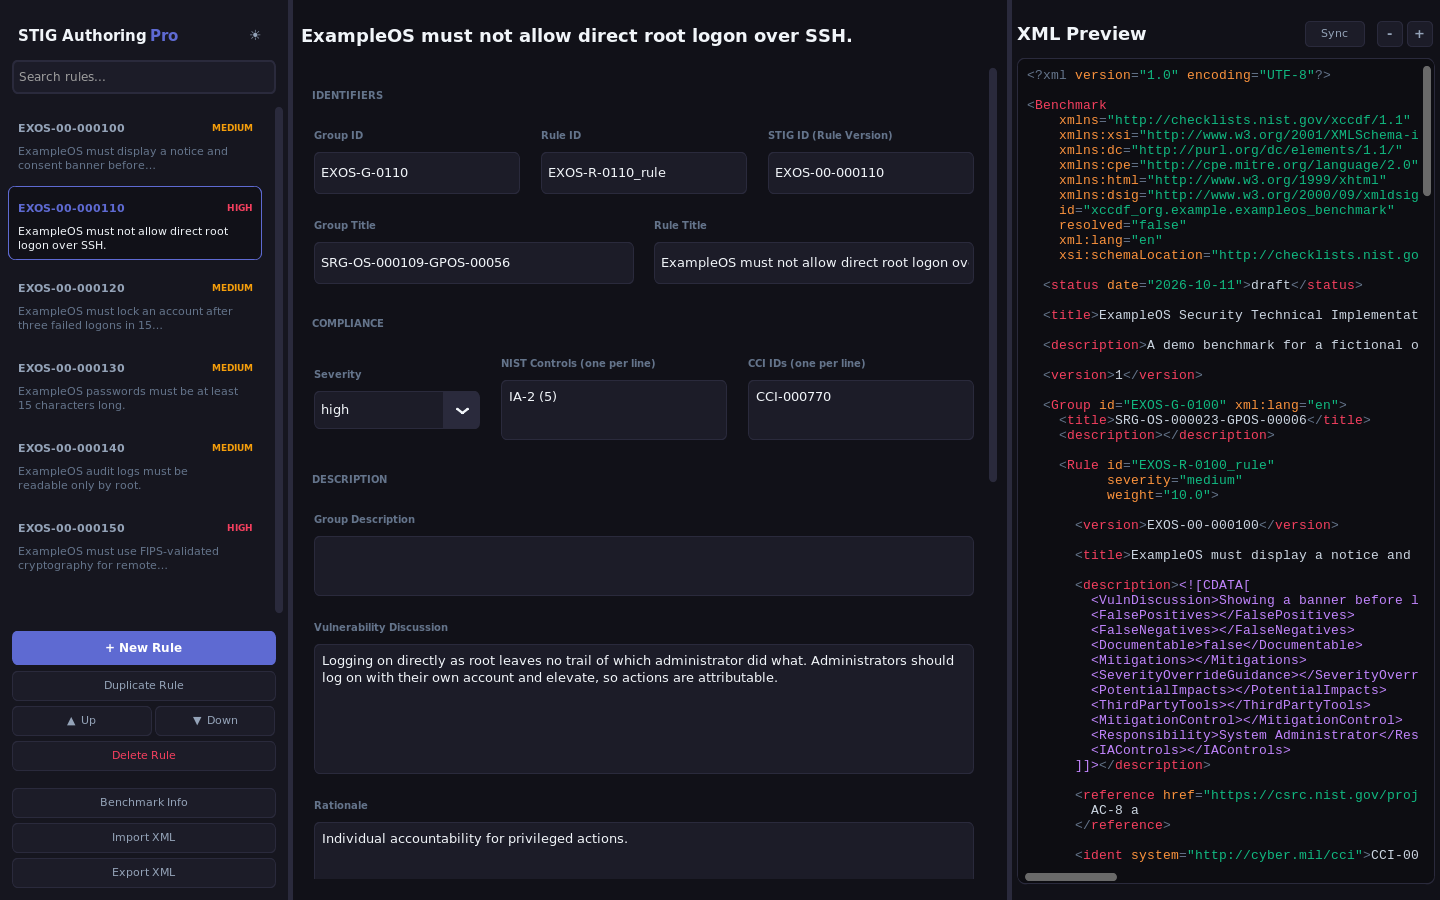
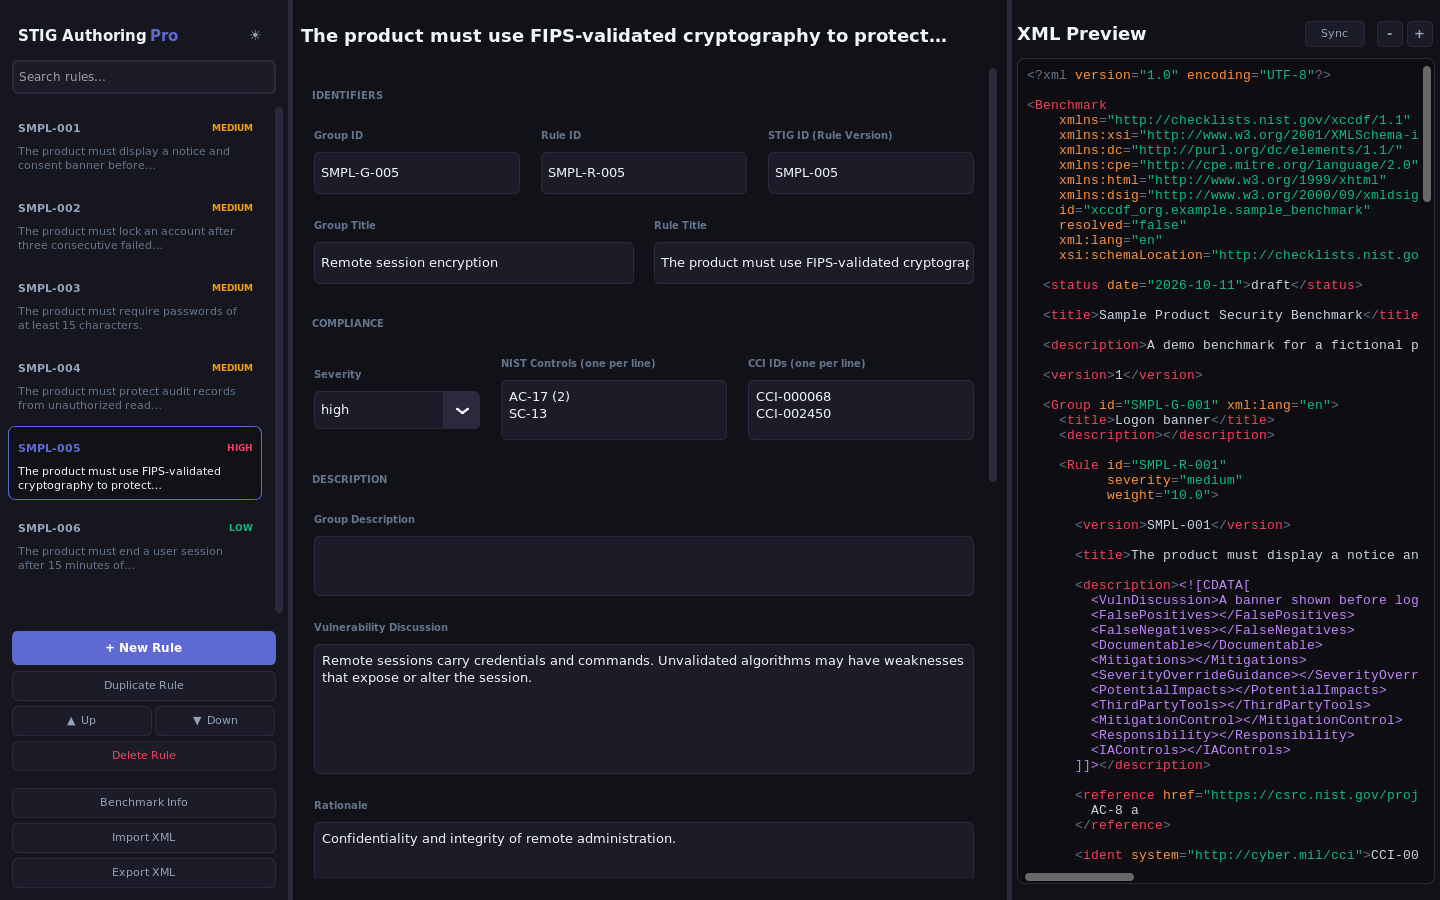
Product-neutral demo and export defaults (#8)

diff --git a/gui.py b/gui.py
@@ -118,6 +118,15 @@ def _make_unique_id(base_id, existing_ids):
     return candidate
 
 
+def _header_text(rule, limit=60):
+    """Editor header for a rule: its title cut on a word boundary so a long title
+    stays inside the pane instead of being clipped at both ends."""
+    text = rule.title.strip() or rule.rule_id.strip() or "(New Rule)"
+    if len(text) > limit:
+        text = text[:limit].rsplit(" ", 1)[0].rstrip(",.;:") + "\u2026"
+    return text
+
+
 def _bind_tree(widget, event, handler):
     """Recursively bind an event handler to a widget and all its tk descendants."""
     try:
@@ -969,7 +978,7 @@ class STIGApp(ctk.CTk):
             top = ctk.CTkFrame(card, fg_color="transparent")
             top.pack(fill="x", padx=10, pady=(8, 2))
 
-            # The STIG ID (e.g. EXOS-00-000100) is what reviewers refer to a rule by;
+            # The STIG ID (e.g. SMPL-001) is what reviewers refer to a rule by;
             # fall back to the long XCCDF IDs only when it is blank.
             # (Export writes the benchmark version into a blank STIG ID, so skip that.)
             stig_id = rule.stig_id if rule.stig_id != self.benchmark.version else ""
@@ -1039,8 +1048,7 @@ class STIGApp(ctk.CTk):
         rule = self.benchmark.rules[self.active_rule_index]
         
         # Display the rule title as the main editor header, fallback to rule ID if title is empty
-        title_text = rule.title.strip() or rule.rule_id.strip() or "(New Rule)"
-        self.rule_editor_label.configure(text=title_text)
+        self.rule_editor_label.configure(text=_header_text(rule))
         
         # Set values
         self.rule_fields["group_id"].set_value(rule.group_id)
@@ -1627,7 +1635,7 @@ class STIGApp(ctk.CTk):
         # Update the Rule Editor header and rebuild the sidebar card list when title/ID changes
         if self.active_rule_index is not None and 0 <= self.active_rule_index < len(self.benchmark.rules):
             rule = self.benchmark.rules[self.active_rule_index]
-            title_text = rule.title.strip() or rule.rule_id.strip() or "(New Rule)"
+            title_text = _header_text(rule)
             if self.rule_editor_label.cget("text") != title_text:
                 self.rule_editor_label.configure(text=title_text)
                 self.update_sidebar_rule_list()

diff --git a/engine.py b/engine.py
@@ -7,6 +7,14 @@ from models import STIGBenchmark, STIGRule
 # blank are derived from the benchmark ID, so nothing product-specific is baked in.
 DEFAULT_BENCHMARK_ID = "xccdf_org.example_benchmark"
 
+# Empty sub-elements written after VulnDiscussion in each rule description, in the
+# order the published STIG convention uses, so readers that expect them find them.
+DESCRIPTION_PLACEHOLDERS = (
+    "FalsePositives", "FalseNegatives", "Documentable", "Mitigations",
+    "SeverityOverrideGuidance", "PotentialImpacts", "ThirdPartyTools",
+    "MitigationControl", "Responsibility", "IAControls",
+)
+
 
 def _id_prefix(benchmark_id):
     """'xccdf_org.example_benchmark' -> 'xccdf_org.example'."""
@@ -212,18 +220,12 @@ def generate_benchmark_xml(benchmark):
         rule_id  = rule.rule_id  or f"{prefix}_rule_{idx + 1:04d}"
         severity = rule.severity or "medium"
 
-        desc_inner = (
-            f"        <VulnDiscussion>{_cdata_safe(rule.vuln_discussion)}</VulnDiscussion>\n"
-            "        <FalsePositives></FalsePositives>\n"
-            "        <FalseNegatives></FalseNegatives>\n"
-            "        <Documentable>false</Documentable>\n"
-            "        <Mitigations></Mitigations>\n"
-            "        <SeverityOverrideGuidance></SeverityOverrideGuidance>\n"
-            "        <PotentialImpacts></PotentialImpacts>\n"
-            "        <ThirdPartyTools></ThirdPartyTools>\n"
-            "        <MitigationControl></MitigationControl>\n"
-            "        <Responsibility>System Administrator</Responsibility>\n"
-            "        <IAControls></IAControls>"
+        # VulnDiscussion comes from the form. The other sub-elements are the
+        # placeholders the public XCCDF/STIG convention expects in every rule
+        # description; they are written empty so nothing is assumed for the reader.
+        desc_inner = "\n".join(
+            [f"        <VulnDiscussion>{_cdata_safe(rule.vuln_discussion)}</VulnDiscussion>"]
+            + [f"        <{tag}></{tag}>" for tag in DESCRIPTION_PLACEHOLDERS]
         )
 
         lines += [

diff --git a/scripts/screenshots.py b/scripts/screenshots.py
@@ -40,12 +40,12 @@ def grab(name):
 
 def load_demo():
     app.load_benchmark(parse_benchmark_xml("examples/demo-benchmark.xml"))
-    app.select_rule(1)          # the high-severity SSH root logon rule
+    app.select_rule(4)          # the high-severity remote session encryption rule
     app.update_xml_preview()
 
 
 def search():
-    app.search_entry.insert(0, "ssh")
+    app.search_entry.insert(0, "password")
     app.on_search_changed()
 
 

diff --git a/README.md b/README.md
@@ -16,7 +16,7 @@ Writing STIG XML by hand is slow and easy to break: one unescaped `<` in a check
 - **Autosave and recovery.** Work is saved to `~/.stig_authoring_autosave.xml` every 1.5 seconds. If the app did not close cleanly, it offers to restore that file on the next start, and closing with unexported changes asks first.
 - **Dark and light themes,** and zoom for the whole UI or just the XML pane.
 
-`examples/demo-benchmark.xml` is a six-rule benchmark for a fictional ExampleOS. Import it to see a filled-in file. The rule text is written for the demo; the NIST and CCI references are the public mappings.
+`examples/demo-benchmark.xml` is a six-rule benchmark for a fictional product. Import it to see a filled-in file. The rule text is written for the demo; the NIST and CCI references are the public mappings.
 
 ## Walkthrough
 
@@ -26,7 +26,7 @@ These are captured from the real app by CI (`scripts/screenshots.py` on a virtua
 
 **2. Find a rule.** Search filters by STIG ID, rule ID, group ID or title.
 
-![Searching for "ssh" narrows the list to the one SSH rule](docs/screenshots/search.png)
+![Searching for "password" narrows the list to the one password rule](docs/screenshots/search.png)
 
 **3. Set the benchmark properties.** ID, title, version, release date, publisher and description live in one dialog. Leave a rule's group or rule ID blank and it is derived from the benchmark ID on export.
 
